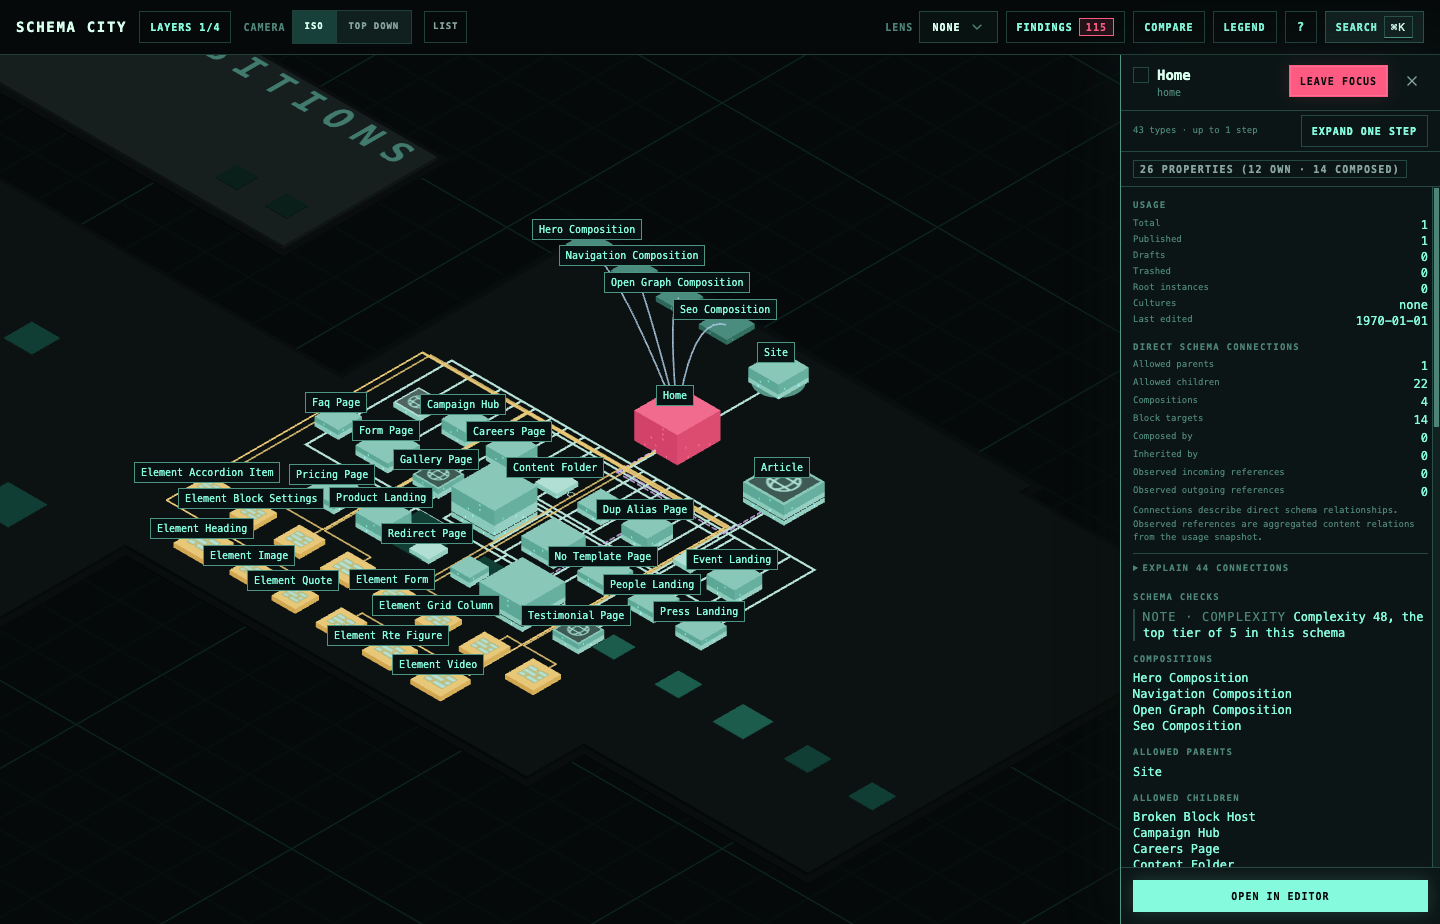
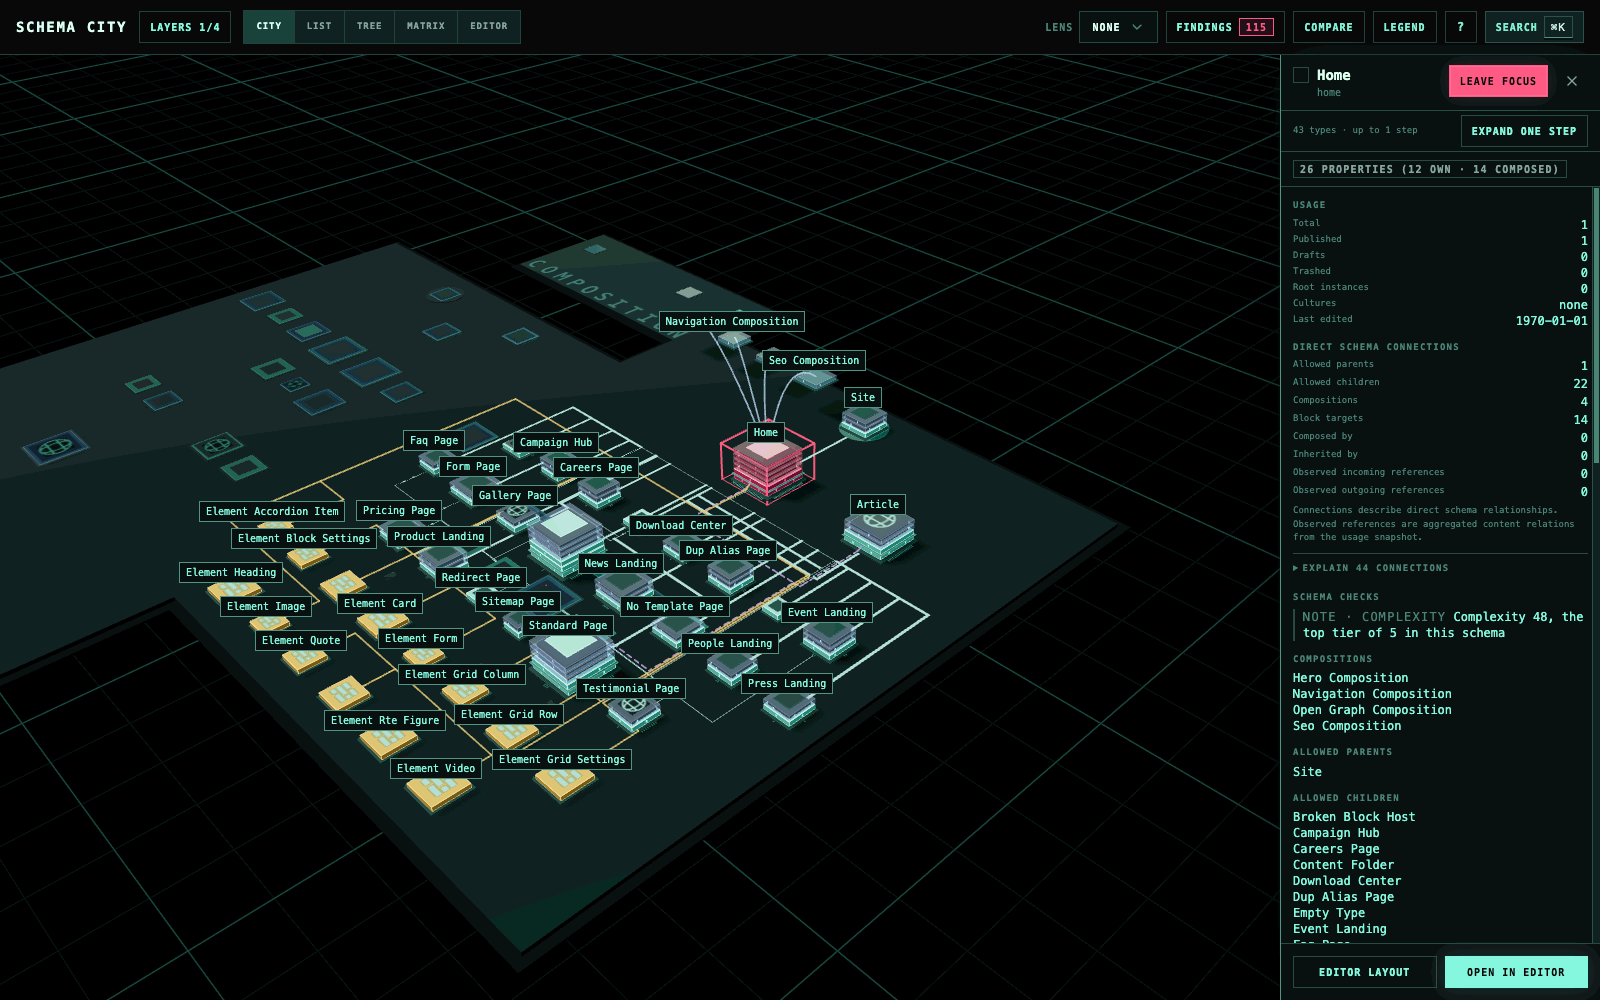
docs: refresh screenshots for the 3D world and add the tree, matrix and editor views

diff --git a/README.md b/README.md
@@ -128,6 +128,8 @@ Document Types that no root can reach, with the types they are allowed under, so
 only hangs off another unreachable type is visible. Element Types and compositions that nothing
 can create are left out of that list.
 
+![The creation tree from the three root types, with Home selected under Site and the unreachable types below.](https://raw.githubusercontent.com/thebuilder/umbraco-schema-city/main/docs/screenshots/tree.png)
+
 ### Compare types in a matrix
 
 Matrix has two grids. Compositions shows which types use which compositions, and marks a
@@ -136,12 +138,16 @@ properties use each Data Type. Each column is headed by the Data Type name, with
 editor alias and the start of the Data Type key below it, so two Data Types with similar names
 stay distinguishable. Rows are sorted by name; columns sort by usage or by name.
 
+![The compositions matrix, with Seo Composition used by most page types.](https://raw.githubusercontent.com/thebuilder/umbraco-schema-city/main/docs/screenshots/matrix.png)
+
 ### Read a type as an editor sees it
 
 Editor draws the selected type as tabs and groups, in the order the schema lists them, with each
 property's alias, editor, mandatory marker and culture variance. A property from a composition
 names its source. Tab labels carry their property counts. Choose Editor layout in the inspector
 to open a type here.
+
+![Home in the editor view, with its tabs, groups and the composition each property comes from.](https://raw.githubusercontent.com/thebuilder/umbraco-schema-city/main/docs/screenshots/editor.png)
 
 ## Compare schema snapshots
 
